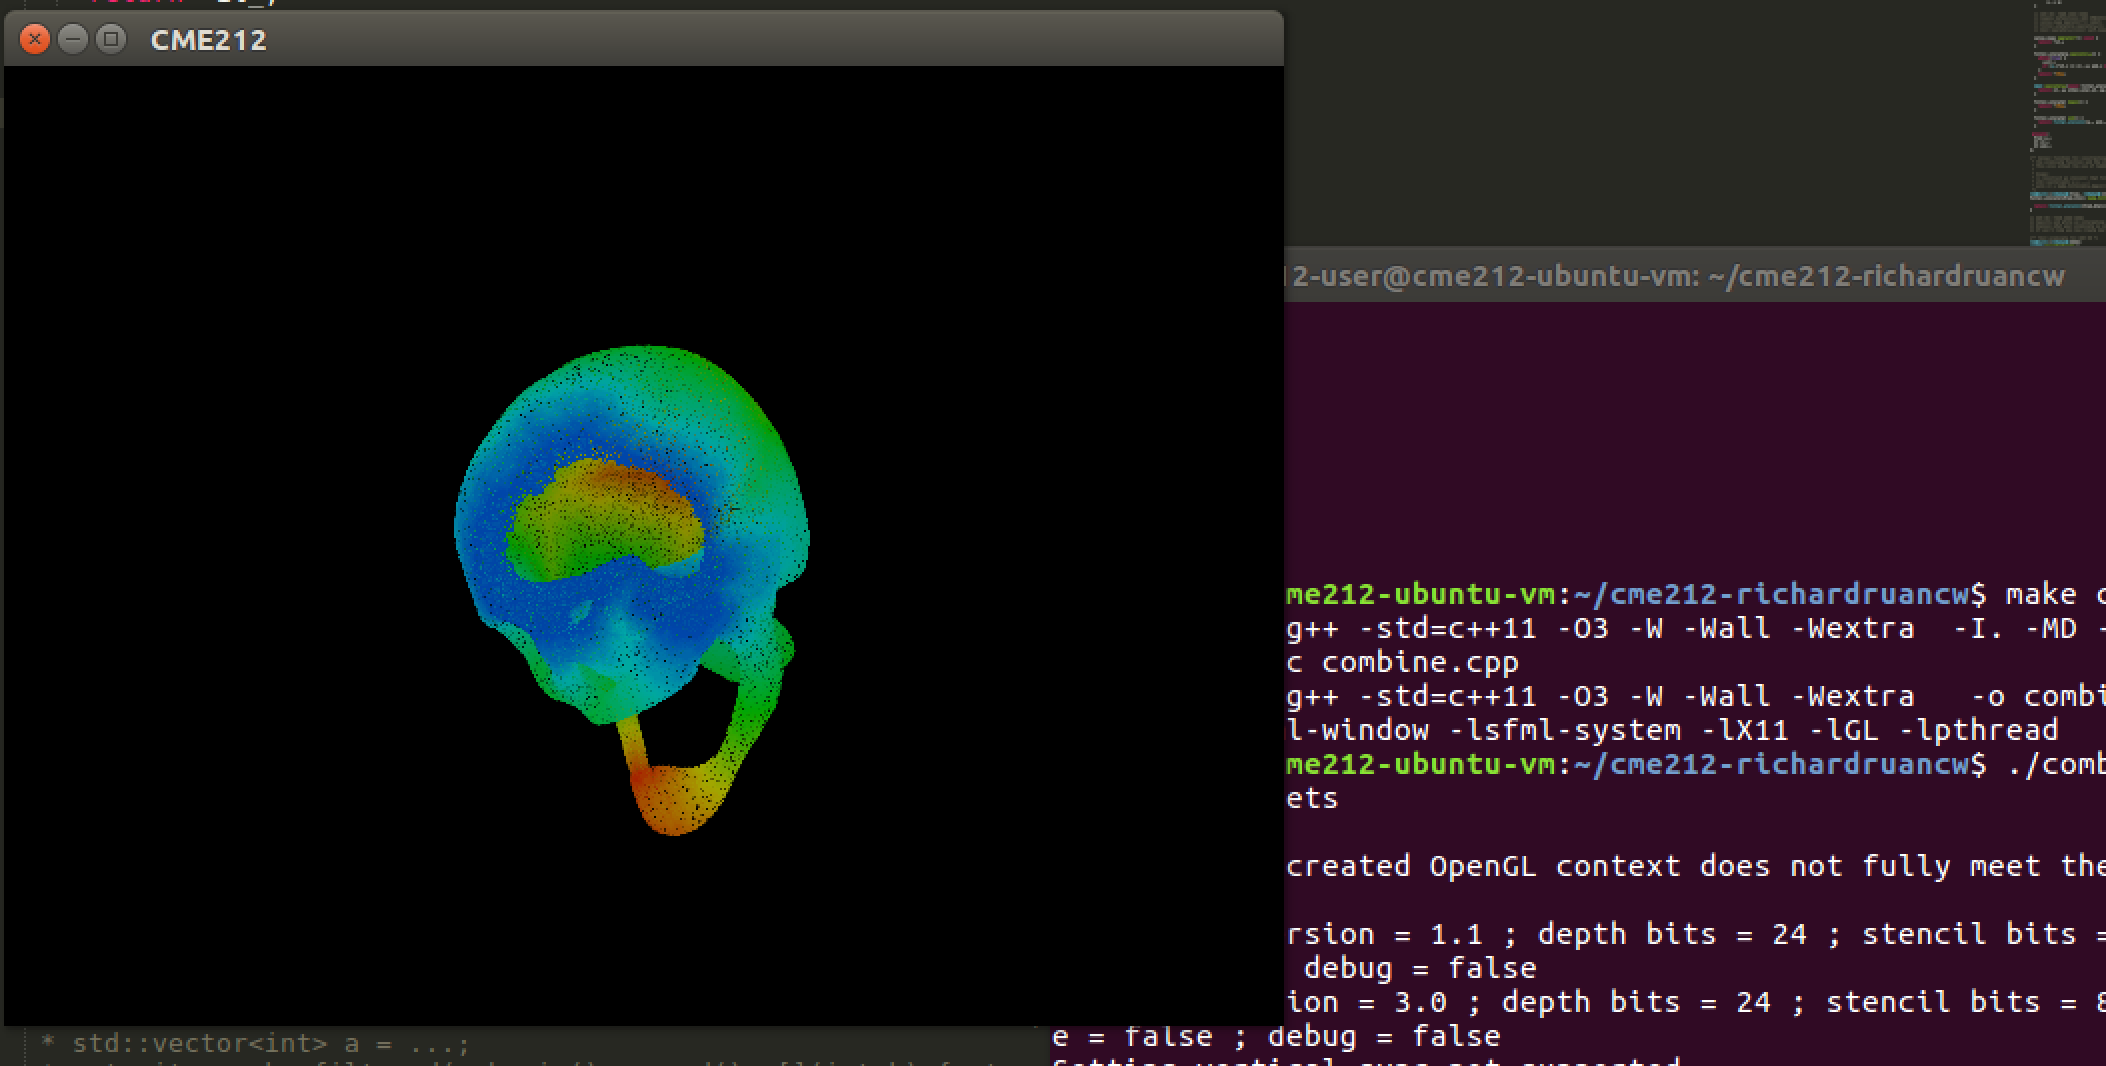
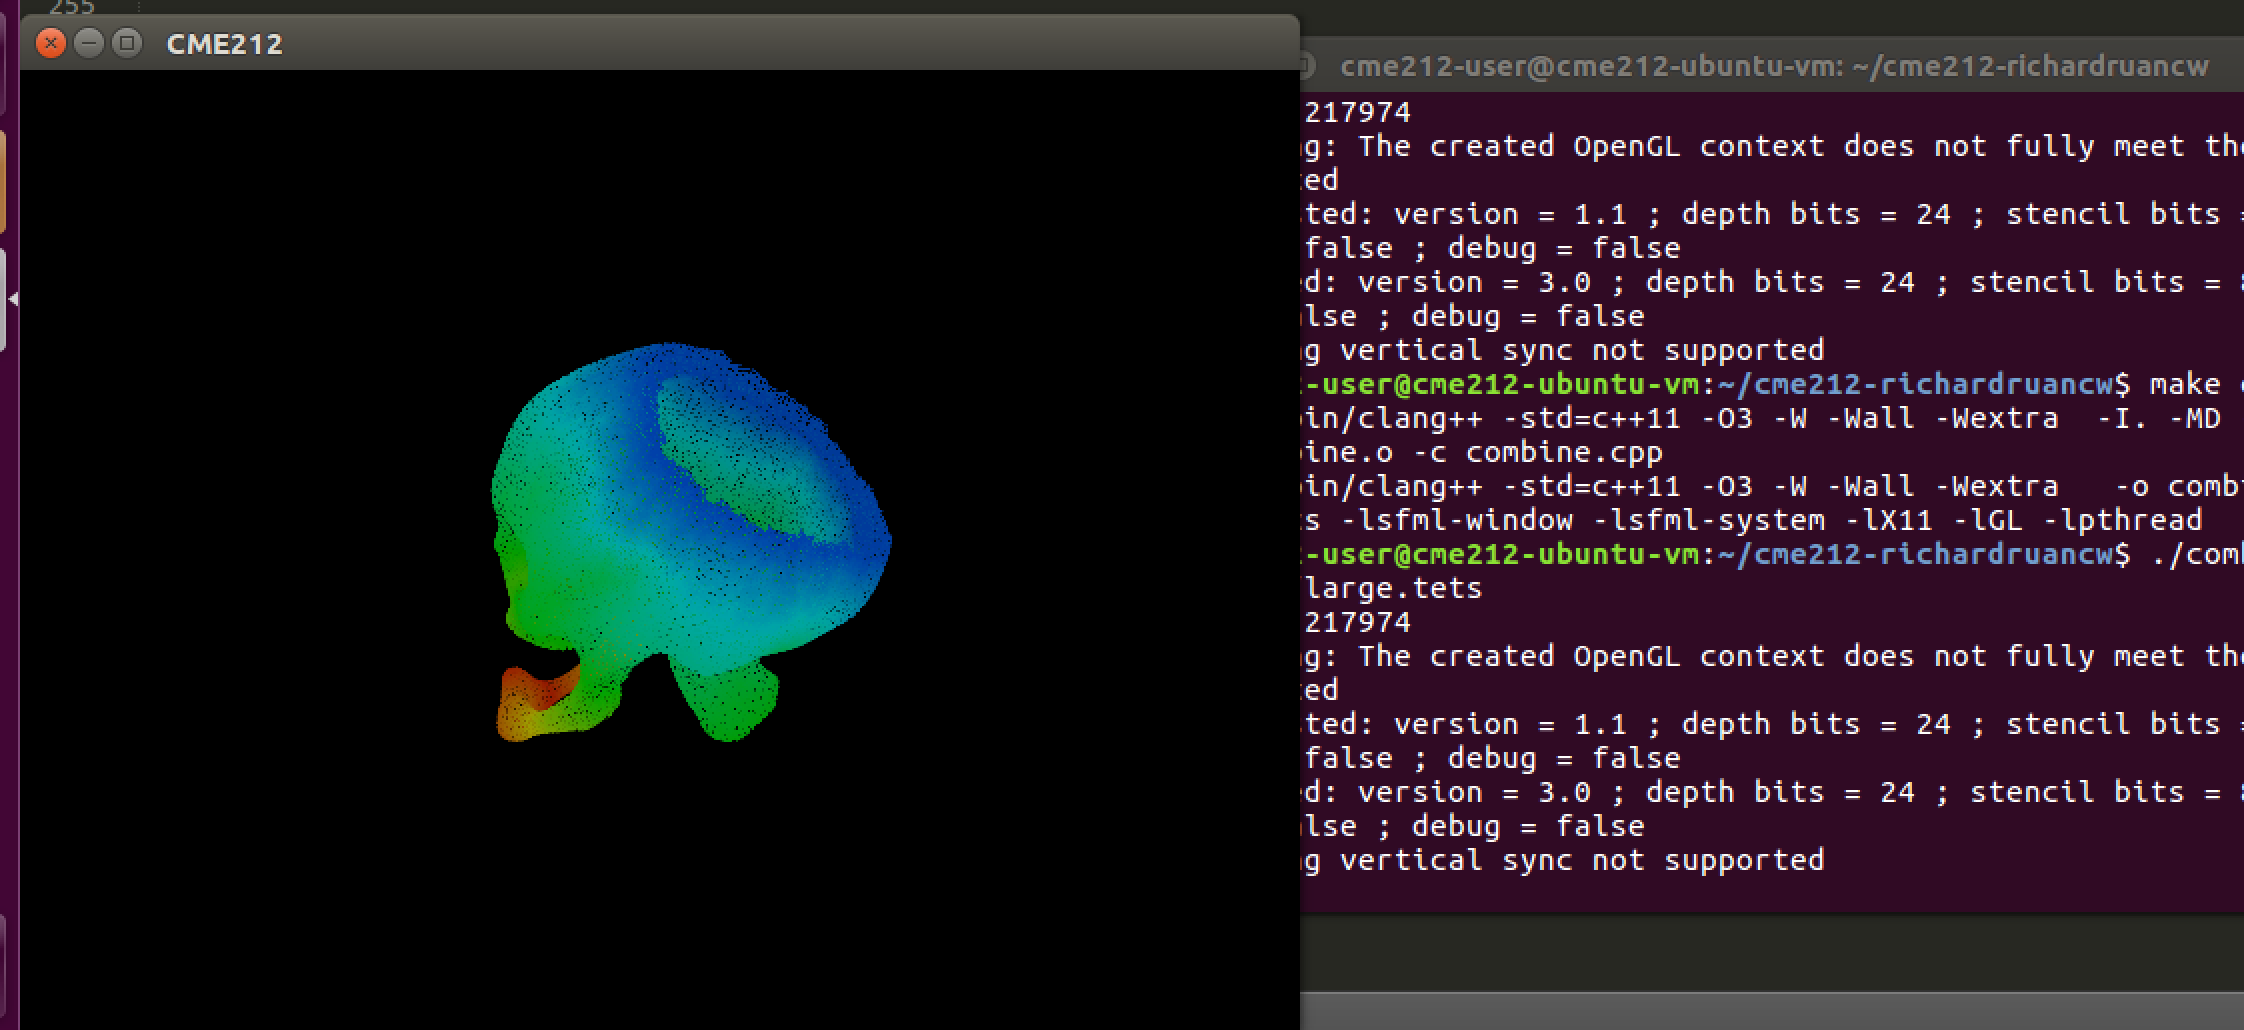
HW1 Finished Version + some plots + update

diff --git a/combine.cpp b/combine.cpp
@@ -55,10 +55,15 @@ class filter_iterator : private equality_comparable<filter_iterator<Pred,It>>
   // filter_iterator& operator++();
   // bool operator==(const self_type&) const;
 
+    /** Return the dereference of the iterator
+   */
   value_type operator*() const {
   	return *it_;
   }
 
+  /** Increment the filter_iterator forward
+   * @post if iter == end() then iter++ == end()
+   */
   filter_iterator& operator++() {
   	while(true) {
   		++it_;
@@ -67,14 +72,17 @@ class filter_iterator : private equality_comparable<filter_iterator<Pred,It>>
   	return *this;
   }
 
+  // Return true if two filter_iterator equal
   bool operator==(const filter_iterator& other_iter) const {
   	return it_ == other_iter.it_ && end_ == other_iter.end_;
   }
 
+  // Return the begin of a filter_iterator
   filter_iterator begin() {
   	return *this;
   }
 
+  // Return the end of a filter_iterator
   filter_iterator end() {
   	return filter_iterator(p_, end_, end_);
   }
@@ -105,11 +113,13 @@ filter_iterator<Pred,Iter> make_filtered(const Iter& it, const Iter& end,
 // Explain what your predicate is intended to do and test it.
 // If you'd like you may create new nodes and tets files.
 
-/** Test predicate for HW1 #4 */
+/** Return true when the node.value() > than 0.222. This predicate functor
+ *  will discard the nodes near the root points
+ */
 template <typename NODE>
 struct SlicePredicate {
   bool operator()(const NODE& n) {
-    return n.value() > 0.233;
+    return n.value() > 0.222;
   }
 };
 
@@ -156,20 +166,20 @@ NodeIter nearest_node(const GraphType& g, const Point& point)
  */
 
 
-void shortest_path_lengths(GraphType& g, NodeType& root)
+int shortest_path_lengths(GraphType& g, NodeType& root)
 {
-  // HW1 #3: YOUR CODE HERE
-  // initialize all node's value to 0
-  for (auto ni = g.node_begin(); ni != g.node_end(); ++ni) {
-    (*ni).value() = 0;
-  }
-
-  // Run BFS
-  std::queue<NodeType> nodeQueue;
-  root.value() = 0.001;
-  nodeQueue.push(root);
+  	// HW1 #3: YOUR CODE HERE
+  	// initialize all node's value to 0
+  	for (auto ni = g.node_begin(); ni != g.node_end(); ++ni) {
+    	(*ni).value() = -1;
+  	}
+  	float maximum = 0;
+  	// Run BFS
+  	std::queue<NodeType> nodeQueue;
+  	root.value() = 0;
+  	nodeQueue.push(root);
   
-  while(!nodeQueue.empty()) {
+  	while(!nodeQueue.empty()) {
     NodeType& curr = nodeQueue.front();
     nodeQueue.pop();
     for (auto ii = curr.edge_begin(); ii != curr.edge_end(); ++ii) {
@@ -180,23 +190,34 @@ void shortest_path_lengths(GraphType& g, NodeType& root)
         temp = (*ii).node1();
       }
       // Don't revisit node
-      if (temp.value() == 0) {
+      if (temp.value() < 0) {
         temp.value() = curr.value() + 1;
+        maximum = std::max(temp.value(), maximum);
         nodeQueue.push(temp);
       }
     }
-  }
-  float maximum = 0;
-   for (auto ni = g.node_begin(); ni != g.node_end(); ++ni) {
-   maximum = std::max((*ni).value(), maximum);
   } 
-  for (auto ni = g.node_begin(); ni != g.node_end(); ++ni) {
-    (*ni).value() = (*ni).value() / maximum;
-  }   
+  	return (int)(maximum); 
 }
 
-
-
+/** Normalize a graph's node's value 
+ * @param[in,out] g     Input graph
+ * @param[in,out] max The normalizing factor
+ * @return The maximum path length found.
+ *
+ * @post root.value() == (old root.value() / max) if old root.value() > 0
+ * @post Graph has modified node values by dividing the normalizing factor to non-negative values.
+ * @post Graph nodes that are unreachable from the root have value() == -1.
+ *
+ */
+void normalize_node_value(GraphType& g, int max) {
+	float maximum = max + 0.0;
+  	for (auto ni = g.node_begin(); ni != g.node_end(); ++ni) {
+  		if ((*ni).value() > 0) {
+    		(*ni).value() = (*ni).value() / maximum;
+		}
+  	}  
+}
 
 
 int main(int argc, char** argv)
@@ -239,9 +260,13 @@ int main(int argc, char** argv)
 
   
   auto node_map = viewer.empty_node_map(graph); 
-  Point pp(5, -5, 1);
+
+  Point pp(10, 10, 10);
   NodeType nearest = *(nearest_node(graph, pp));
-  shortest_path_lengths(graph, nearest);
+  // Update the path length
+  int maximum = shortest_path_lengths(graph, nearest);
+  // Normalize the value in nodes
+  normalize_node_value(graph, maximum);
   // Center the view and enter the event loop for interactivity
   struct MyNodeColor {
    CME212::Color operator()(const NodeType& node) const {
@@ -249,7 +274,6 @@ int main(int argc, char** argv)
     }
   };
   MyNodeColor headColor;
-
 
   SlicePredicate<NodeType> slicePre;
   auto Nodeiter = make_filtered(graph.node_begin(), graph.node_end(), slicePre);

diff --git a/shortest_path.cpp b/shortest_path.cpp
@@ -67,20 +67,20 @@ NodeIter nearest_node(const GraphType& g, const Point& point)
  */
 
 
-void shortest_path_lengths(GraphType& g, NodeType& root)
+int shortest_path_lengths(GraphType& g, NodeType& root)
 {
-  // HW1 #3: YOUR CODE HERE
-  // initialize all node's value to 0
-  for (auto ni = g.node_begin(); ni != g.node_end(); ++ni) {
-    (*ni).value() = 0;
-  }
-
-  // Run BFS
-  std::queue<NodeType> nodeQueue;
-  root.value() = 0.001;
-  nodeQueue.push(root);
+  	// HW1 #3: YOUR CODE HERE
+  	// initialize all node's value to 0
+  	for (auto ni = g.node_begin(); ni != g.node_end(); ++ni) {
+    	(*ni).value() = -1;
+  	}
+  	float maximum = 0;
+  	// Run BFS
+  	std::queue<NodeType> nodeQueue;
+  	root.value() = 0;
+  	nodeQueue.push(root);
   
-  while(!nodeQueue.empty()) {
+  	while(!nodeQueue.empty()) {
     NodeType& curr = nodeQueue.front();
     nodeQueue.pop();
     for (auto ii = curr.edge_begin(); ii != curr.edge_end(); ++ii) {
@@ -91,19 +91,33 @@ void shortest_path_lengths(GraphType& g, NodeType& root)
         temp = (*ii).node1();
       }
       // Don't revisit node
-      if (temp.value() == 0) {
+      if (temp.value() < 0) {
         temp.value() = curr.value() + 1;
+        maximum = std::max(temp.value(), maximum);
         nodeQueue.push(temp);
       }
     }
-  }
-  float maximum = 0;
-   for (auto ni = g.node_begin(); ni != g.node_end(); ++ni) {
-   maximum = std::max((*ni).value(), maximum);
   } 
-  for (auto ni = g.node_begin(); ni != g.node_end(); ++ni) {
-    (*ni).value() = (*ni).value() / maximum;
-  }   
+  	return (int)(maximum); 
+}
+
+/** Normalize a graph's node's value 
+ * @param[in,out] g     Input graph
+ * @param[in,out] max The normalizing factor
+ * @return The maximum path length found.
+ *
+ * @post root.value() == (old root.value() / max) if old root.value() > 0
+ * @post Graph has modified node values by dividing the normalizing factor to non-negative values.
+ * @post Graph nodes that are unreachable from the root have value() == -1.
+ *
+ */
+void normalize_node_value(GraphType& g, int max) {
+	float maximum = max + 0.0;
+  	for (auto ni = g.node_begin(); ni != g.node_end(); ++ni) {
+  		if ((*ni).value() > 0) {
+    		(*ni).value() = (*ni).value() / maximum;
+		}
+  	}  
 }
 
 
@@ -148,8 +162,10 @@ int main(int argc, char** argv)
 
   Point pp(-1, 0, 1);
   NodeType nearest = *(nearest_node(graph, pp));
-
-  shortest_path_lengths(graph, nearest);
+  // Update the path length
+  int maximum = shortest_path_lengths(graph, nearest);
+  // Normalize the value in nodes
+  normalize_node_value(graph, maximum);
   // Center the view and enter the event loop for interactivity
 
   struct MyNodeColor {

diff --git a/subgraph.cpp b/subgraph.cpp
@@ -48,7 +48,7 @@ class filter_iterator : private equality_comparable<filter_iterator<Pred,It>>
   // filter_iterator& operator++();
   // bool operator==(const self_type&) const;
 
-  /** Return the deference of the iterator
+  /** Return the dereference of the iterator
    */
   value_type operator*() const {
   	return *it_;
@@ -107,6 +107,8 @@ filter_iterator<Pred,Iter> make_filtered(const Iter& it, const Iter& end,
 // If you'd like you may create new nodes and tets files.
 
 /** Test predicate for HW1 #4 */
+
+// See the @file combine.cpp, in which I use the length to the root node to slice nodes.
 template <typename NODE>
 struct SlicePredicate {
   bool operator()(const NODE& n) {
